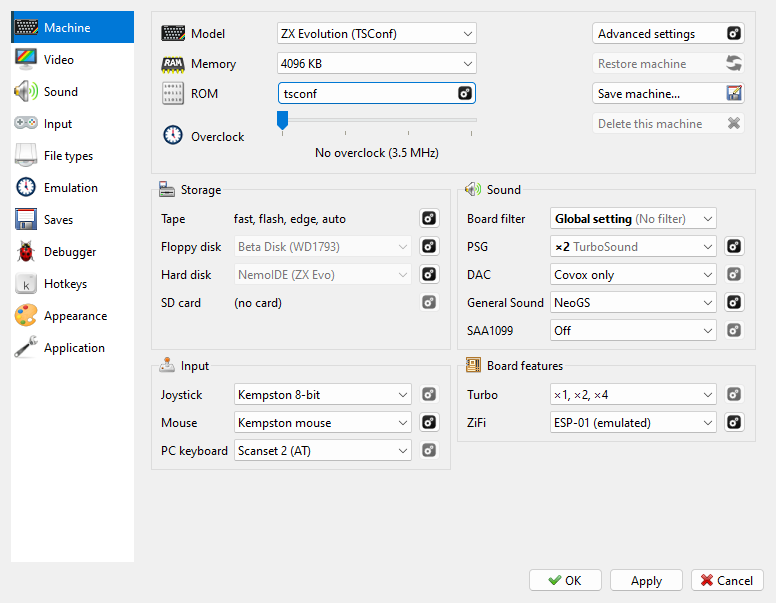
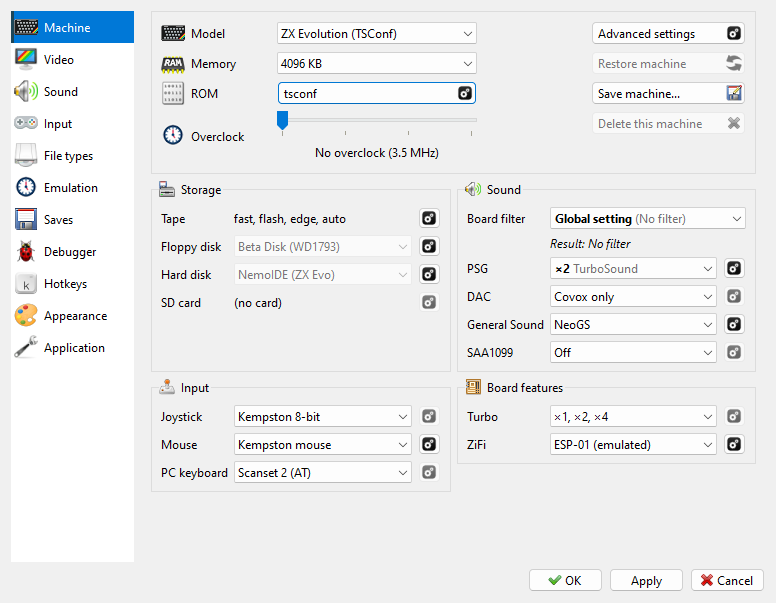
manual: Sound, Machine - the Board filter's Result line, the groups' titles naming what the machine has, a filter picked in the sound menus dropping the running machine's own; the pages' pictures

Changed region(s): [[0.1856, 0.3881, 0.9588, 0.806]]

diff --git a/docs/manual/options-sound.md b/docs/manual/options-sound.md
@@ -46,7 +46,10 @@ Under it are four groups.
 **Stereo** and **Filters**, side by side, are how every machine is heard. This is a matter
 of taste, as a shader is, so it is set once here for all of them and stays when the machine
 changes. A machine can have its own **PSG stereo** and **Board filter** over these (see
-[A machine's own](#a-machines-own) below).
+[A machine's own](#a-machines-own) below). Each group's title names what the machine
+shown in **Options** has now: **Stereo (current: Mono)**, **Filters (board: TV (RF))**. With
+**By machine** it is the board's own; it is the machine's own choice where it has one. A
+machine with no PSG has no order to name, nor has the ZX Next.
 
 **Stereo**:
 
@@ -104,13 +107,15 @@ A machine can be heard otherwise than this page says: its **PSG stereo** in **Ma
 
 - **Global setting**, the default - this page's choice, named in gray: **Global setting
   (ABC)**, or with **By machine** here, **Global setting (Machine spec)**: each machine as
-  its board was made. What it gives this machine is noted under **Stereo** in **Machine:
-  PSG** - **Result: Mono (machine spec)** - and in the **Board filter**'s tooltip;
+  its board was made. What it gives this machine is noted under the list: **Result: Mono
+  (machine spec)**, **Result: TV (RF) (machine spec)**;
 - then, under a line, the values. The one the board was made with is marked: **Mono
   (Machine spec)**, **TV (RF) (Machine spec)**.
 
 Any choice but the first is the machine's own. It is heard whatever this page says, and a
-change here does not take it away. The first choice puts the machine back on this page.
+change here does not take it away. The first choice puts the machine back on this page, and
+so does a filter picked in the sound menus while that machine runs (see
+[Board filter](#board-filter) below).
 
 While some machine has a choice of its own, a button marked {icon}`exclamation` stands
 after **PSG stereo** or **Board filter** with how many do, and its tooltip names them, one
@@ -130,10 +135,11 @@ The beeper is a single bit of a port, but what you heard from it depended on the
 On some machines the sound chip went the same way. **Board filter** in **Filters**
 picks what every machine sounds through. Its choices are also under the arrow of the
 toolbar's {icon}`speaker` **Mute** button and in **Sound** of the right-click menu, and with
-them, under **Output filters**, **Low cut (DC)** and **High cut (anti-alias)**. They are
-this page's: when the running machine is heard through a filter of its own, the menu says so
-over them. **By machine** there names what it gives the running machine: **By machine (TV
-(RF))**.
+them, under **Output filters**, **Low cut (DC)** and **High cut (anti-alias)**. The mark
+there is on the filter the running machine is heard through, and **By machine** names its
+board's: **By machine (TV (RF))**. A filter picked there is this page's, for every machine,
+and is heard at once: if the running machine had a filter of its own, that one goes, and
+the message says which. Other machines keep theirs.
 
 The filter runs in the machine's time, so it slows down and speeds up with it: in **Slow
 Motion** a high tone it cuts stays cut as it drops in pitch.

diff --git a/docs/manual/options-machine.md b/docs/manual/options-machine.md
@@ -188,13 +188,16 @@ heard through:
 
 - **Global setting**, the default - the **Board filter** of the **Sound** page, in gray:
   **Global setting (No filter)**, or with **By machine** there, **Global setting (Machine
-  spec)**, its board's own. Its tooltip says what this machine is heard through.
+  spec)**, its board's own. The line under the list says what this machine is heard
+  through: **Result: TV (RF) (machine spec)**.
 - under a line, **No filter**, and under another, the filters. The board's own is marked: **TV (RF)
   (Machine spec)** on the 128K, **No filter (Machine spec)** on the Pentagon.
 
 Every choice but the first is this machine's own, heard whatever the **Sound** page says.
 The marked one filters what the board filtered; another filter takes all of the sound. The
-wheel does not change the list while it is closed. The filters are
+wheel does not change the list while it is closed. A filter picked under the **Mute**
+button's arrow or in **Sound** of the right-click menu is for every machine, this one too:
+its own choice goes, back to **Global setting**. The filters are
 described in [Board filter](options-sound.md#board-filter); [A machine's own](options-sound.md#a-machines-own)
 says how the **Sound** page shows the machines with a choice of their own.
 
